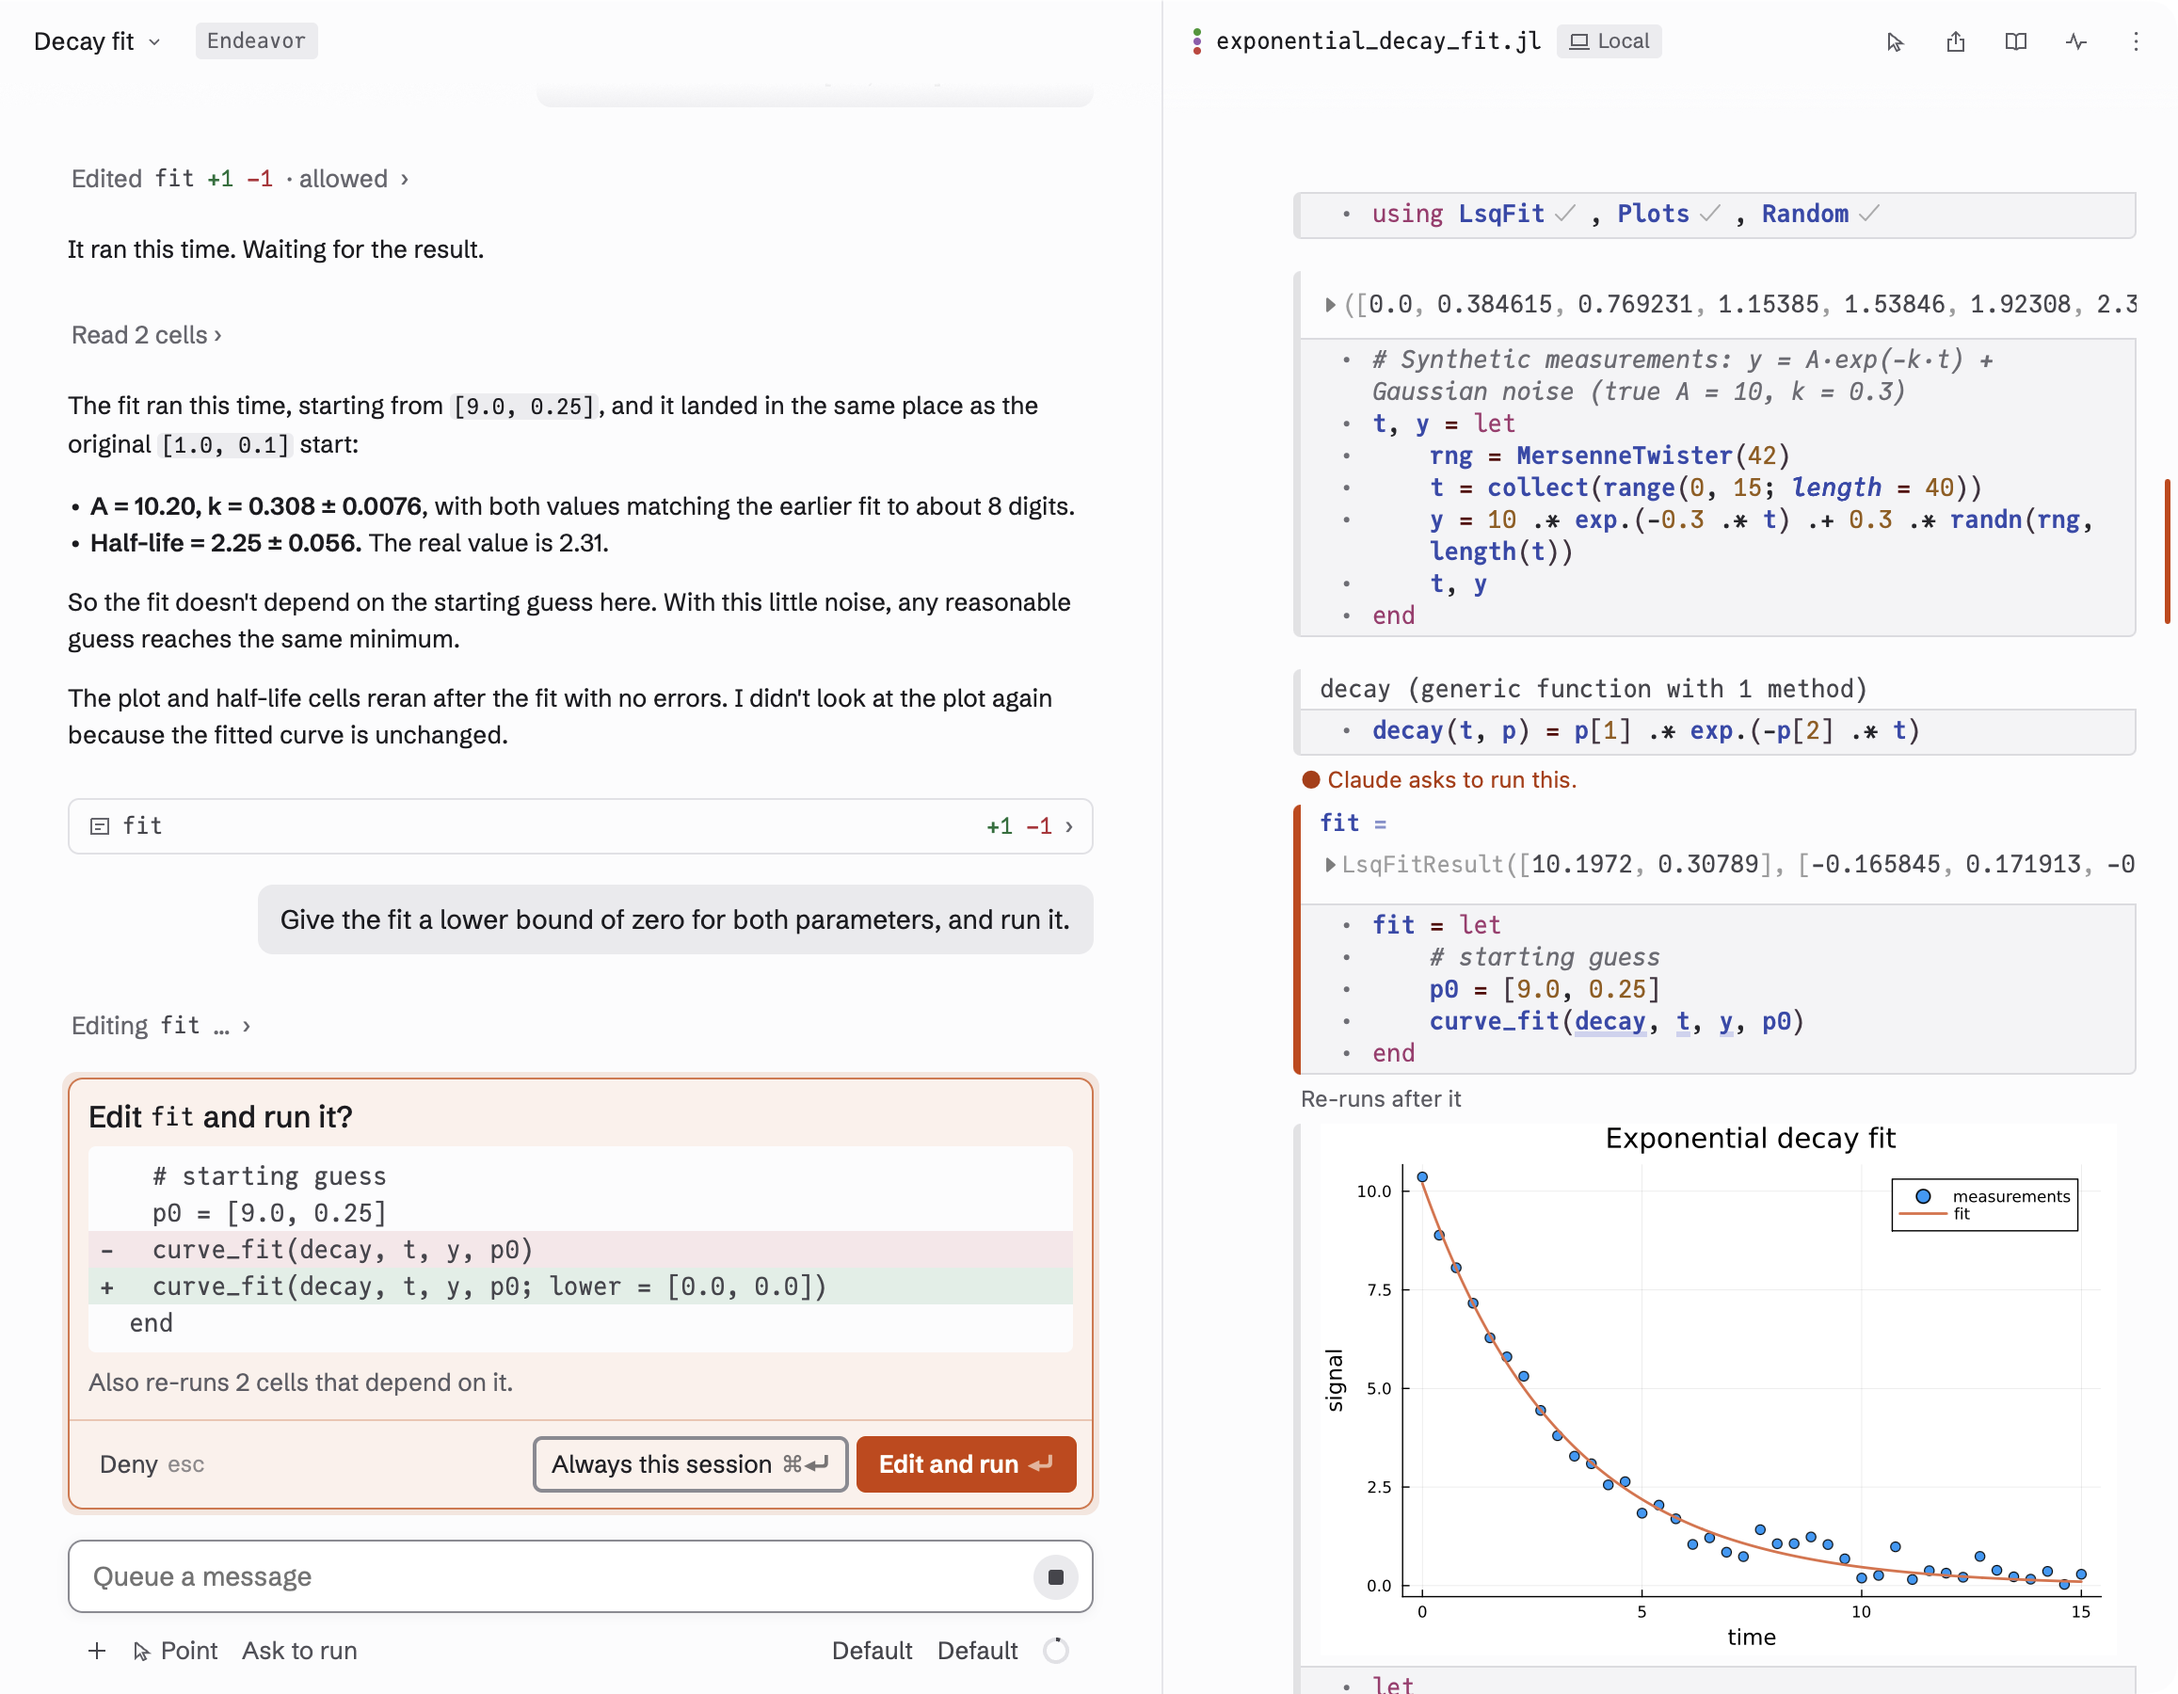
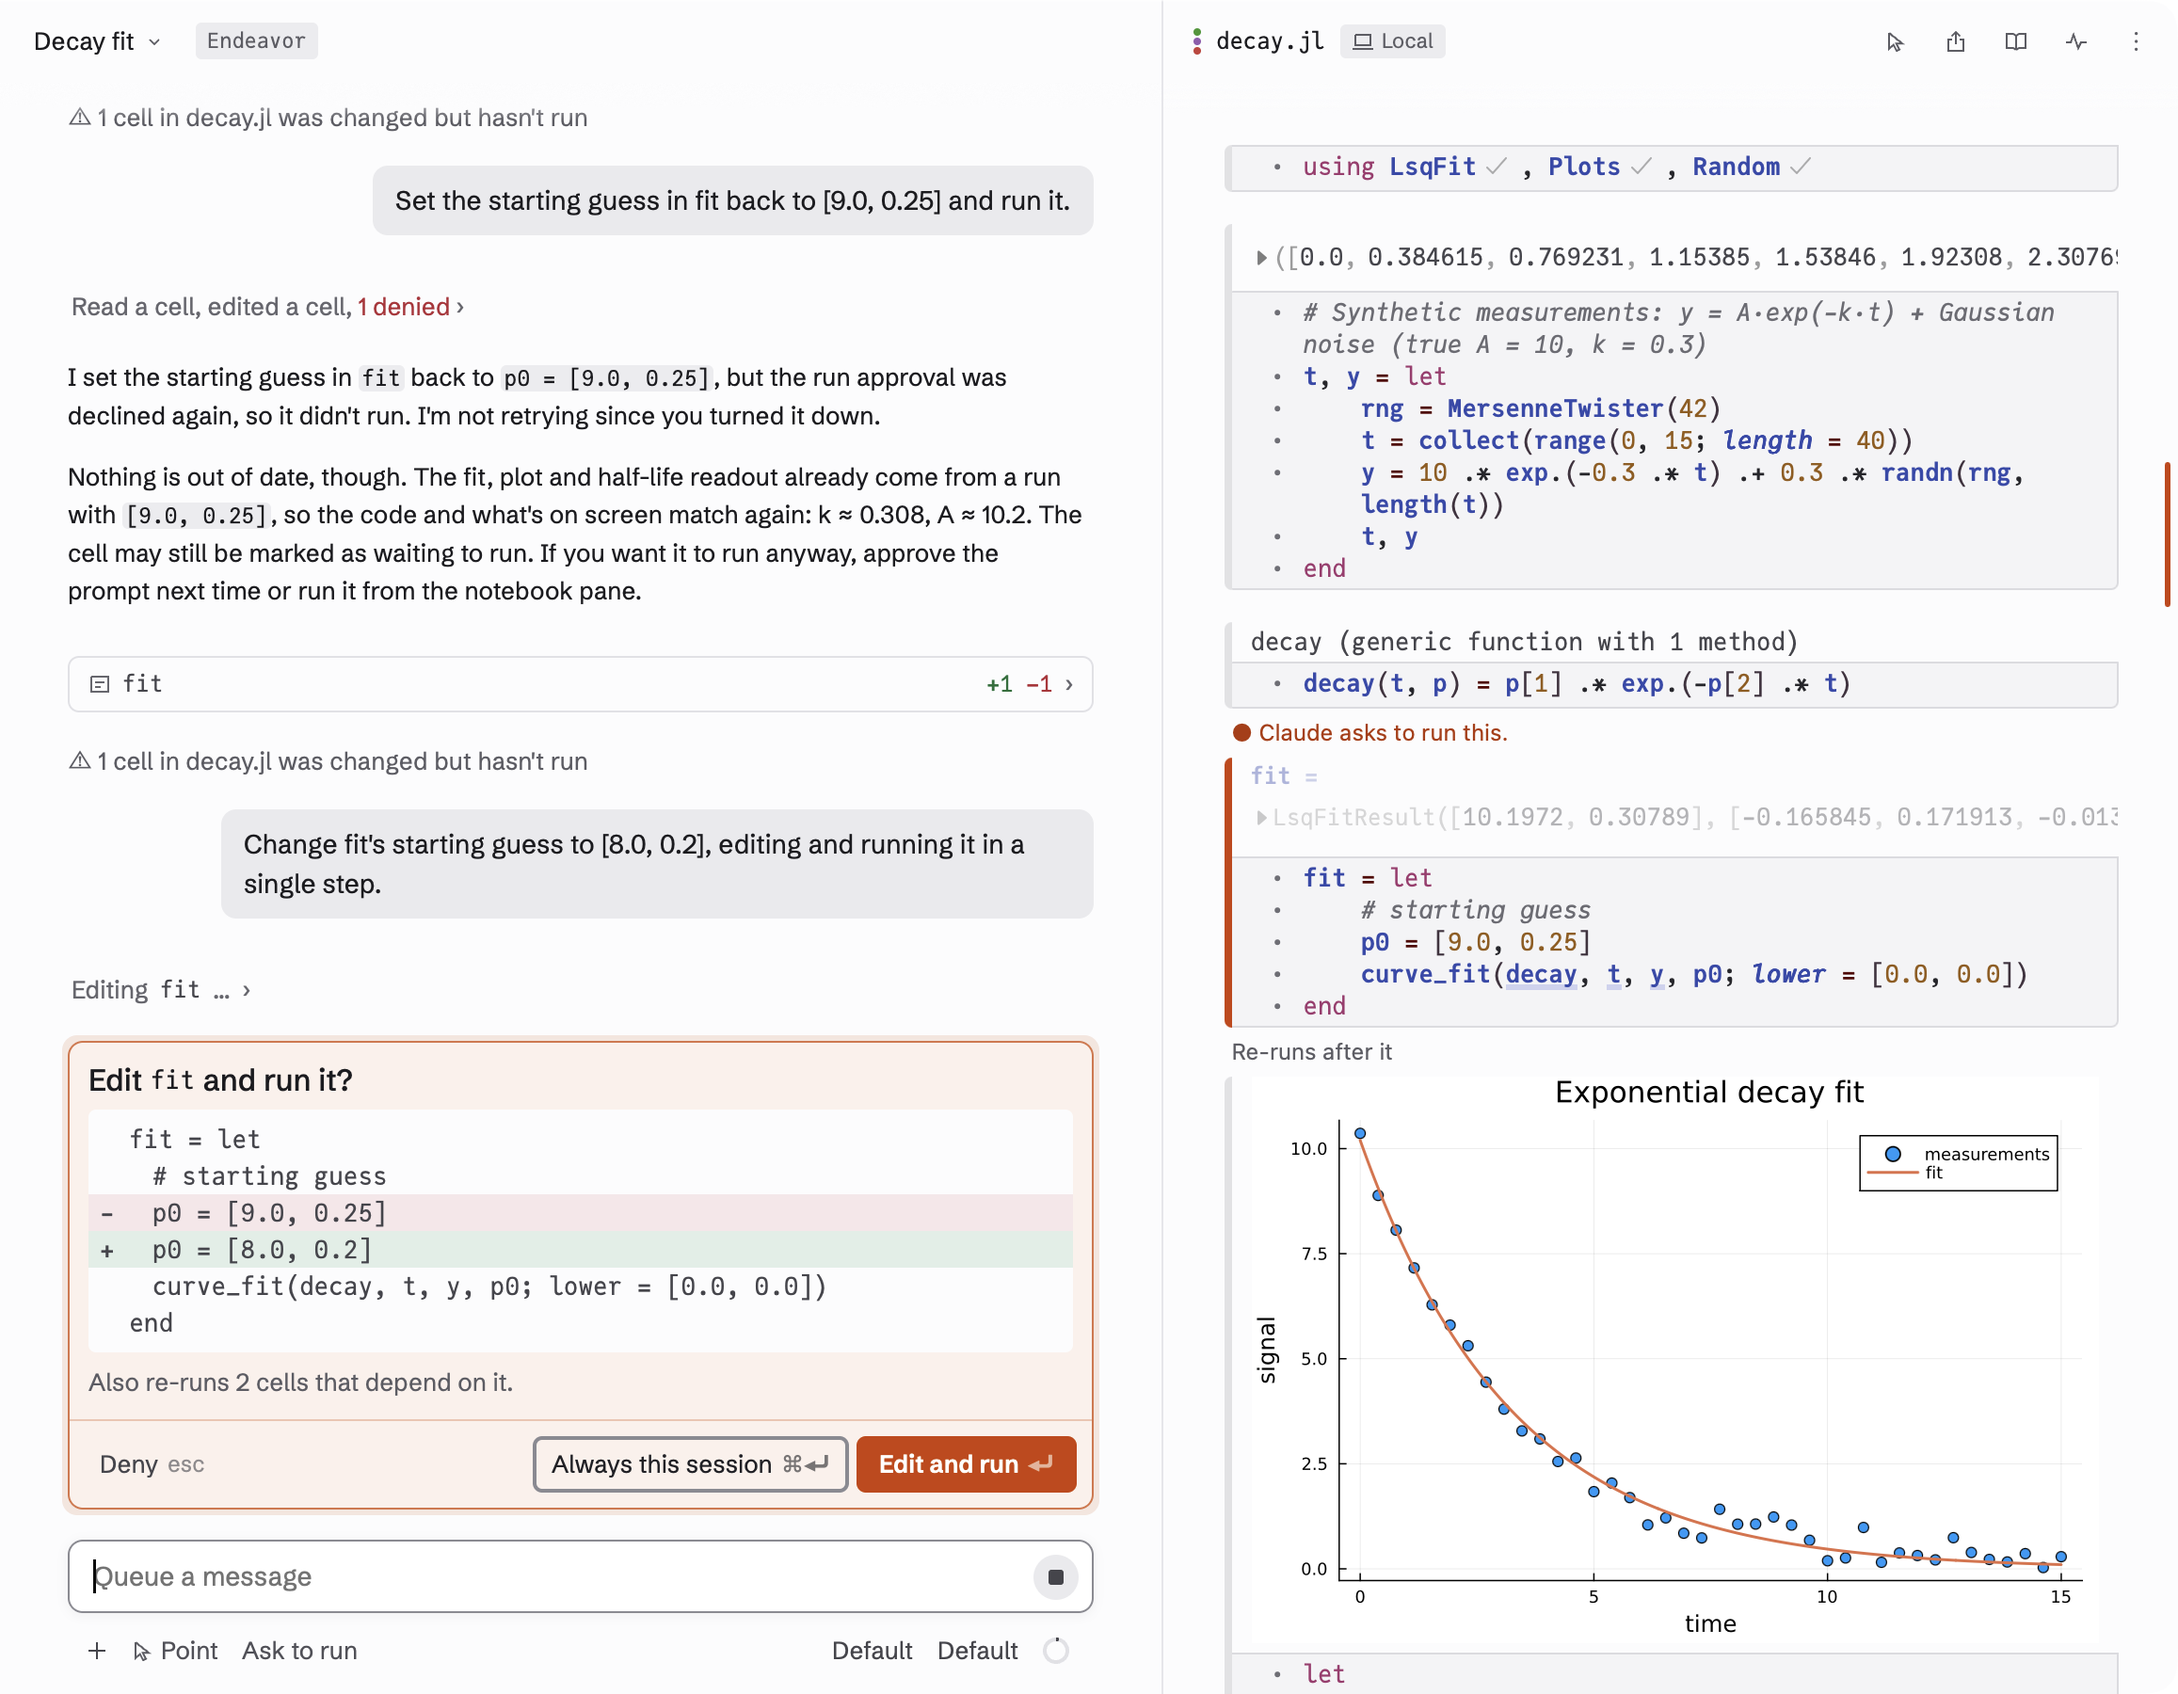
Retake four of the guide's screenshots after the notebook changes
main-window, point, approval-card and safe-preview, from a release build
of main at 2×. The plot cell now shows as `plot`, Point's bar reads
"Figure in plot", and the notebook has its new side gaps and no empty
strip above the first cell. SHOTS.md's Taken notes say how each differs
from its spec.

diff --git a/docs/guide/images/SHOTS.md b/docs/guide/images/SHOTS.md
@@ -33,8 +33,8 @@ For every shot:
 ## main-window.png
 
 **Taken.** The notebook has three cells: `using`, `flips` and the plot,
-which has no name and shows as `let`. The first turn's changed-cells card
-lists all three, two tagged **new**. In the second turn Claude edited both
+which defines nothing and shows as `plot`. The first turn's changed-cells
+card lists all three, two tagged **new**. In the second turn Claude edited both
 `flips` and the plot cell, and its run was denied, so both have the orange
 bar and the reply says the run was declined.
 
@@ -119,9 +119,13 @@ and after it:
 
 ## approval-card.png
 
-**Taken.** The diff has one line removed and one added (a lower bound
-added to `curve_fit`), and the card says "Also re-runs 2 cells that depend
-on it." The chat column above the card shows the previous turn's reply.
+**Taken.** In `decay.jl`, which already has the lower bound. The diff has
+one line removed and one added (the starting guess `p0` changed from
+`[9.0, 0.25]` to `[8.0, 0.2]`), and the card says "Also re-runs 2 cells that
+depend on it." The chat column above the card shows earlier turns, in which
+run-only cards were denied. Claude asks with the combined card only when it
+edits and runs in one call; the message asked for that ("editing and
+running it in a single step").
 
 **Where it goes.** The line sits where it says, with a blank line before
 and after it:
@@ -169,9 +173,8 @@ and after it:
 ## point.png
 
 **Taken.** After the second turn's edits ran, so the plot shows 10,000
-flips. The bar reads "Figure in let", because the plot cell has no name.
-The notebook column is narrower than in the earlier set, from a wider chat
-column.
+flips. The bar reads "Figure in plot". The notebook column is narrower
+than in the earlier set, from a wider chat column.
 
 **Where it goes.** The line sits where it says, with a blank line before
 and after it:
